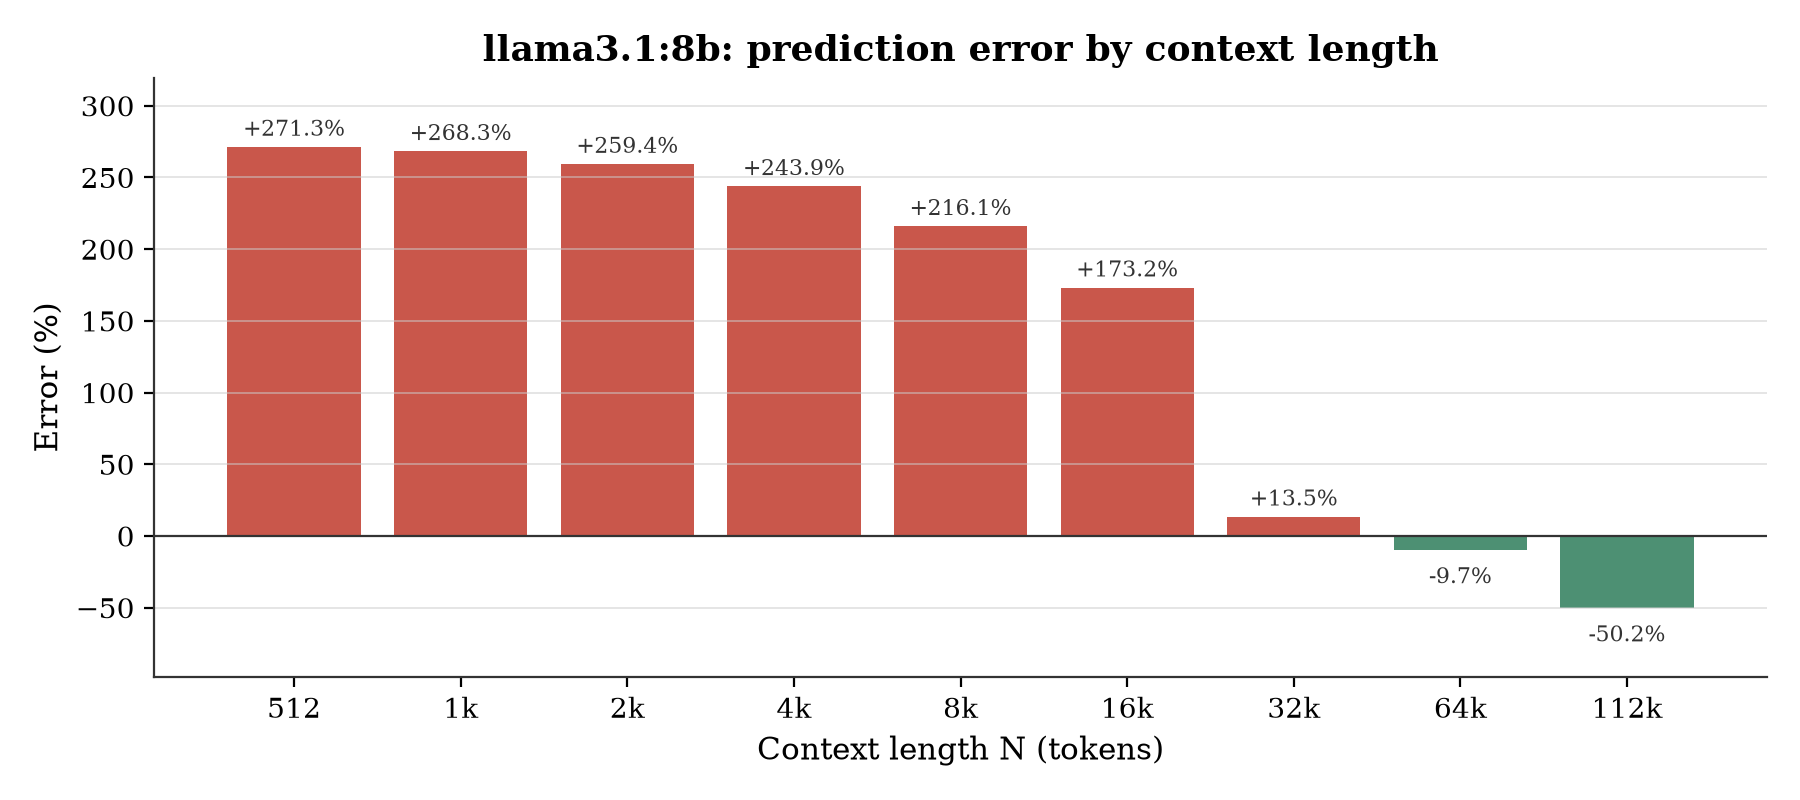
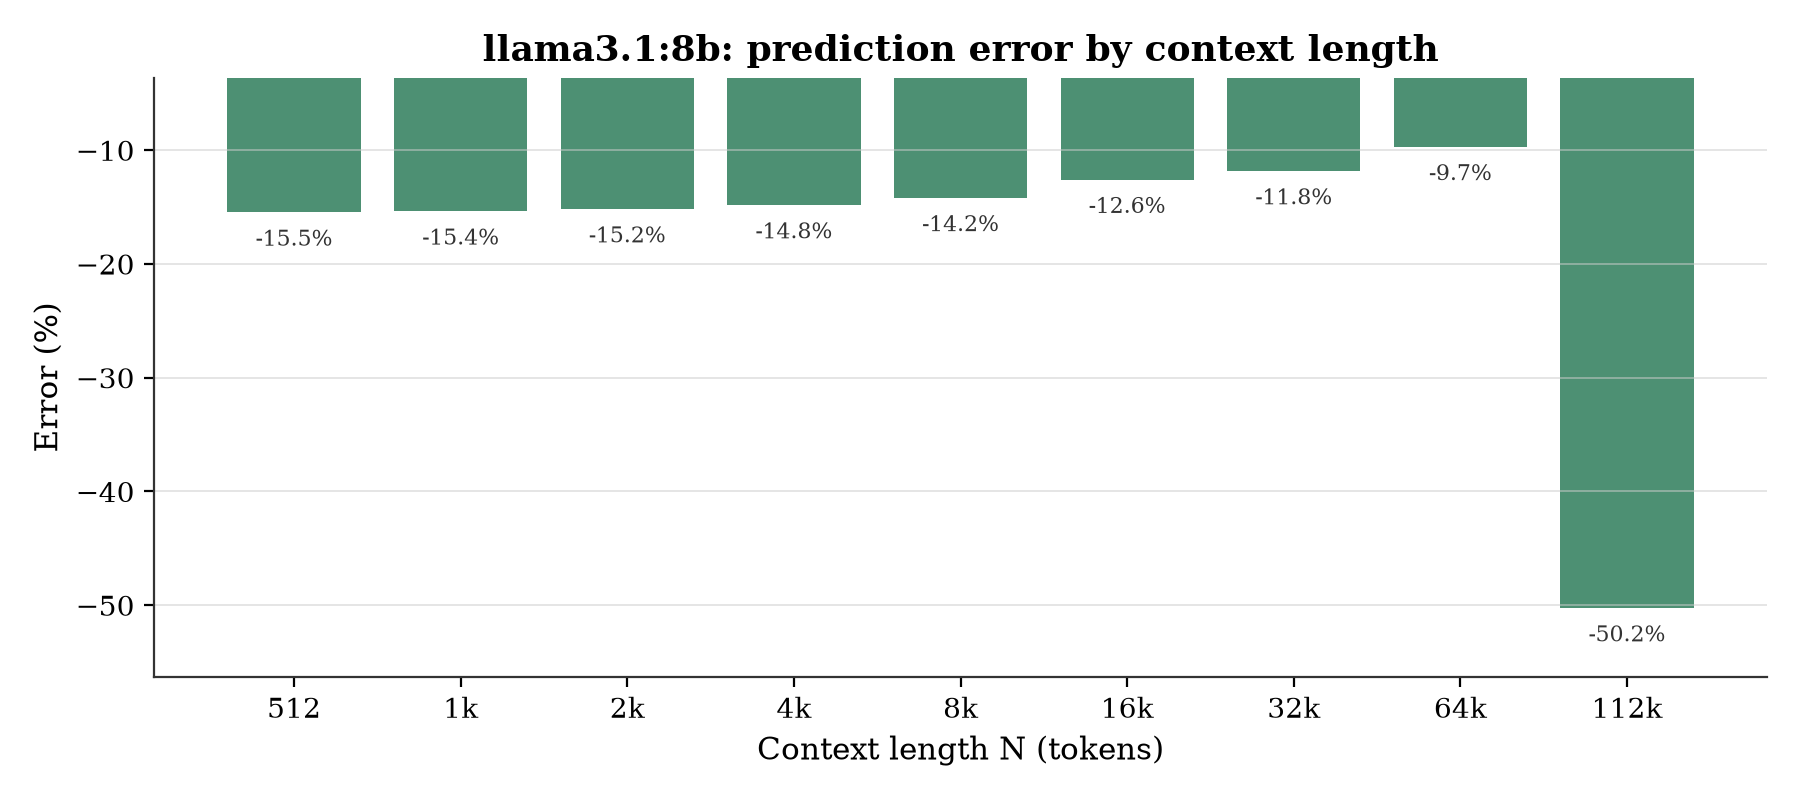
reslts llama3.1

diff --git a/results/rq4/csvs/llama3.1_8b/rq4_summary_table.tex b/results/rq4/csvs/llama3.1_8b/rq4_summary_table.tex
@@ -4,13 +4,13 @@
 \toprule
 $N$ (tokens) & Predicted (GB) & Measured (GB) & Error (\)) \\
 \midrule
-512 & 5.76 & 21.38 \pm 0.10 & +271.34 \\
-1,024 & 5.82 & 21.45 \pm 0.00 & +268.33 \\
-2,048 & 5.96 & 21.41 \pm 0.08 & +259.41 \\
-4,096 & 6.23 & 21.41 \pm 0.08 & +243.91 \\
-8,192 & 6.76 & 21.38 \pm 0.10 & +216.07 \\
-16,384 & 7.84 & 21.41 \pm 0.08 & +173.23 \\
-32,768 & 9.98 & 11.33 \pm 5.66 & +13.51 \\
+512 & 5.76 & 4.87 \pm 0.00 & -15.46 \\
+1,024 & 5.82 & 4.93 \pm 0.00 & -15.36 \\
+2,048 & 5.96 & 5.05 \pm 0.00 & -15.17 \\
+4,096 & 6.23 & 5.30 \pm 0.00 & -14.82 \\
+8,192 & 6.76 & 5.80 \pm 0.00 & -14.18 \\
+16,384 & 7.84 & 6.85 \pm 0.00 & -12.58 \\
+32,768 & 9.98 & 8.80 \pm 0.00 & -11.82 \\
 65,536 & 14.28 & 12.89 \pm 0.00 & -9.70 \\
 114,688 & 20.72 & 10.31 \pm 0.00 & -50.25 \\
 \bottomrule
